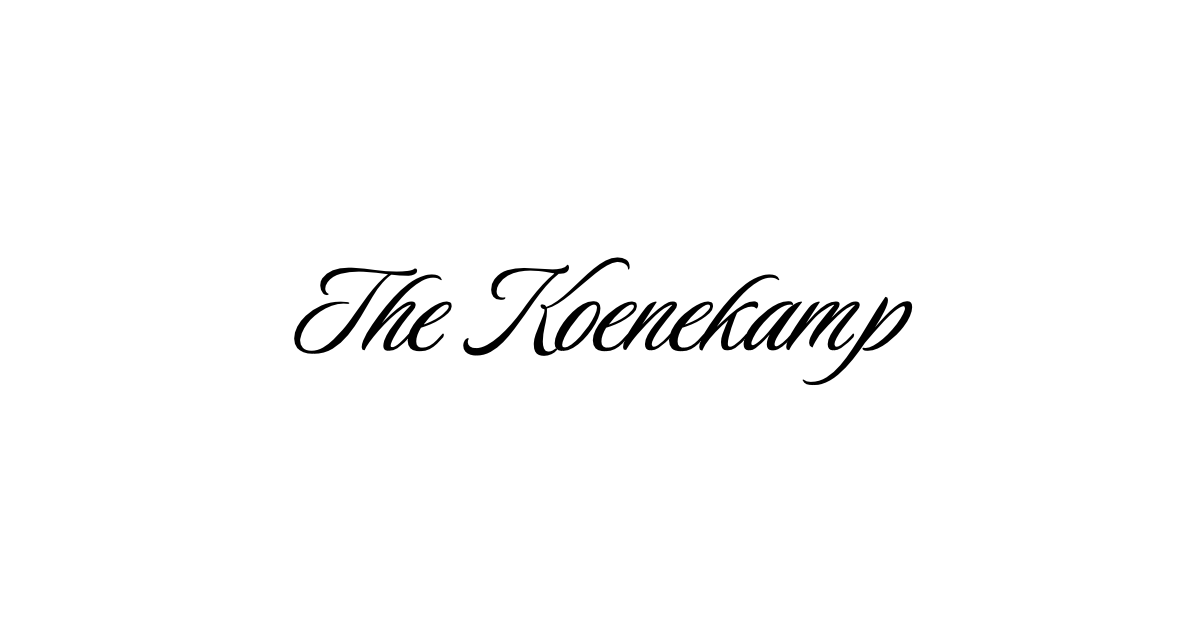
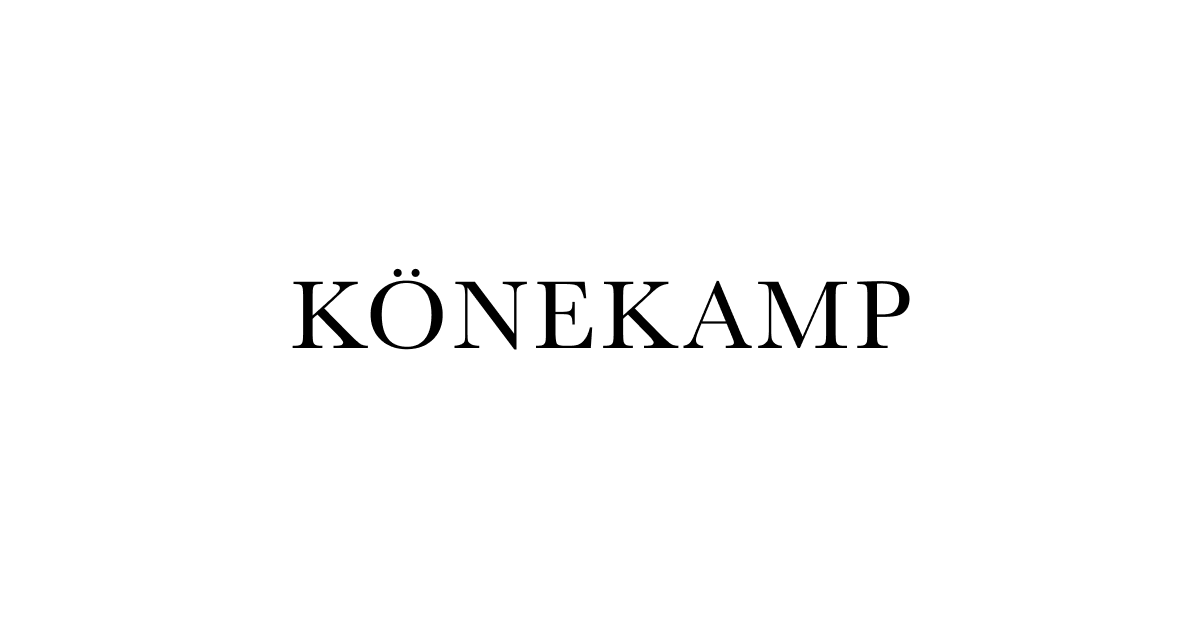
update design

Changed region(s): [[0.2467, 0.3921, 0.7708, 0.6032]]

diff --git a/app/layout.tsx b/app/layout.tsx
@@ -1,17 +1,9 @@
 import Footer from '@/components/layout/Footer';
+import Header from '@/components/layout/Header';
 import type { Metadata } from 'next';
-import { Geist, Geist_Mono, Playfair_Display } from 'next/font/google';
 import './globals.css';
 
-const geistSans = Geist({ variable: '--font-geist-sans', subsets: ['latin'] });
-const geistMono = Geist_Mono({ variable: '--font-geist-mono', subsets: ['latin'] });
-const playfair = Playfair_Display({
-	variable: '--font-display',
-	subsets: ['latin'],
-	weight: ['400', '500', '600', '700', '800', '900'],
-});
-
-const siteName = 'The Koenekamp';
+const siteName = 'KÖNEKAMP';
 const title = siteName;
 const description =
 	'Christoph Könekamp – DeFi Specialist, Blockchain Consultant, Full-Stack Web3 Developer, Infrastructure Architect (ENS/IPFS/IPNS).';
@@ -56,10 +48,11 @@ export const metadata: Metadata = {
 	category: 'technology',
 	authors: [{ name: 'Christoph Könekamp', url: 'https://thekoenekamp.com' }],
 	creator: 'Christoph Könekamp',
-	publisher: 'The Koenekamp',
+	publisher: 'Christoph Könekamp',
 	icons: {
 		icon: [
 			{ url: '/favicon.ico' },
+			{ url: '/logo.svg', type: 'image/svg+xml' },
 			{ url: '/icon.png', type: 'image/png', sizes: '32x32' },
 			{ url: '/icon-192.png', type: 'image/png', sizes: '192x192' },
 			{ url: '/apple-touch-icon.png', rel: 'apple-touch-icon', sizes: '180x180' },
@@ -70,9 +63,9 @@ export const metadata: Metadata = {
 export default function RootLayout({ children }: { children: React.ReactNode }) {
 	return (
 		<html lang="en" className="h-full bg-white text-neutral-900">
-			<body className={`${geistSans.variable} ${geistMono.variable} ${playfair.variable} antialiased h-full`}>
-				{/* Ganze Seite = Viewport-Höhe, Footer immer unten */}
-				<div className="min-h-svh grid grid-rows-[1fr_auto] overflow-hidden">
+			<body className="antialiased h-full">
+				{/* Whole page = Viewport height, Footer always at bottom */}
+				<div className="flex min-h-svh flex-col overflow-hidden">
 					<script
 						type="application/ld+json"
 						dangerouslySetInnerHTML={{
@@ -81,7 +74,7 @@ export default function RootLayout({ children }: { children: React.ReactNode }) 
 								'@type': 'Person',
 								name: 'Christoph Könekamp',
 								url: 'https://thekoenekamp.com',
-								email: 'mailto:contact@thekoenekamp.com',
+								email: 'mailto:office@thekoenekamp.com',
 								jobTitle: ['DeFi Specialist', 'Blockchain Consultant', 'Full-Stack Web3 Developer', 'Infrastructure Architect'],
 								sameAs: [
 									'https://x.com/your_handle',
@@ -92,7 +85,8 @@ export default function RootLayout({ children }: { children: React.ReactNode }) 
 							}),
 						}}
 					/>
-					<main className="flex items-center justify-center px-6">{children}</main>
+					<Header />
+					<main className="flex-1 flex items-center justify-center px-6">{children}</main>
 					<Footer />
 				</div>
 			</body>

diff --git a/app/page.tsx b/app/page.tsx
@@ -5,28 +5,30 @@ export default function Home() {
 	return (
 		<main className="flex flex-col items-center justify-center text-center w-full max-w-[760px] px-6 cursor-default">
 			{/* Brand / Name */}
-			<h1 className="font-[var(--font-display)] text-4xl sm:text-5xl md:text-6xl font-normal leading-tight tracking-wide mb-10">
-				<span className="font-luxuriousScript">The Koenekamp</span>
-			</h1>
+			<div className="text-4xl sm:text-5xl md:text-5xl font-normal leading-tight tracking-wide mb-0">
+				<div className="space-y-2">
+					<div className="scale-y-[0.9]">KÖNEKAMP</div>
+				</div>
+			</div>
 
 			{/* Name + Email */}
-			<div className="mb-6 space-y-2">
-				<div className="text-sm mb-0 font-semibold">Christoph Könekamp</div>
-				<a href="mailto:contact@thekoenekamp.com" className="text-sm underline">
-					contact@thekoenekamp.com
+			<div className="mb-0 space-y-2">
+				{/* <div className="text-sm mb-0 font-semibold">Christoph Könekamp</div> */}
+				<a href="mailto:office@thekoenekamp.com" className="text-sm underline">
+					office@thekoenekamp.com
 				</a>
 			</div>
 
 			{/* Roles */}
-			<ul className="text-sm leading-relaxed text-neutral-700 space-y-0 font-medium">
+			{/* <ul className="text-sm leading-relaxed space-y-0">
 				<li>DeFi Specialist</li>
 				<li>Blockchain Consultant</li>
 				<li>Full-Stack Web3 Developer</li>
 				<li>Infrastructure Architect (ENS/IPFS/IPNS)</li>
-			</ul>
+			</ul> */}
 
 			{/* Social Links */}
-			<div className="mt-6 flex space-x-6">
+			<div className="mt-4 flex space-x-6">
 				<a target="_blank" rel="noreferrer" href="https://x.com/thekoenekamp" className="group" title="X (Twitter)" aria-label="X (Twitter)">
 					<FaXTwitter className="w-4 h-4" />
 				</a>

diff --git a/components/layout/Footer.tsx b/components/layout/Footer.tsx
@@ -1,18 +1,17 @@
 'use client';
 
 import React from 'react';
-import { LuExternalLink } from 'react-icons/lu';
 
 export default function Footer() {
 	return (
-		<footer className="row-start-2 w-full text-black py-6 pb-[env(safe-area-inset-bottom)] mb-6 font-sans">
+		<footer className="row-start-2 w-full text-black bg-white py-4 pb-[env(safe-area-inset-bottom)] mb-0 font-sans">
 			<div className="container mx-auto flex flex-col items-center gap-6 sm:flex-row sm:justify-between">
-				{/* Left placeholder (Logo/Navi möglich) */}
+				{/* Left placeholder */}
 				<div className="hidden sm:block flex-1" />
 
 				{/* IPNS Link */}
 				<div className="text-[0.6rem] text-center">
-					<a
+					{/* <a
 						href="https://thekoenekamp.eth.limo"
 						target="_blank"
 						rel="noreferrer"
@@ -20,7 +19,7 @@ export default function Footer() {
 					>
 						<span className="relative top-[1px]">IPNS</span>
 						<LuExternalLink className="w-3 h-3" />
-					</a>
+					</a> */}
 				</div>
 
 				{/* Right placeholder */}
@@ -28,7 +27,7 @@ export default function Footer() {
 			</div>
 
 			{/* Bottom Section */}
-			<div className="mt-2 text-[0.5rem] text-center">Copyright © {new Date().getFullYear()} The Koenekamp. All rights reserved.</div>
+			<div className="mt-0 mb-4 text-[0.5rem] text-center">Copyright © 1995-{new Date().getFullYear()} KÖNEKAMP. All rights reserved.</div>
 		</footer>
 	);
 }

diff --git a/app/not-found.tsx b/app/not-found.tsx
@@ -4,16 +4,17 @@ import Link from 'next/link';
 
 export default function NotFound() {
 	return (
-		<div className="flex min-h-screen items-center justify-center bg-white px-4">
+		<div className="flex items-center justify-center bg-white px-4">
 			<div className="text-center space-y-6">
 				<h1 className="font-[var(--font-display)] text-4xl sm:text-5xl font-normal text-black">Page not found</h1>
-				<p className="text-base sm:text-lg text-neutral-500 max-w-md mx-auto">The page you’re looking for doesn’t exist.</p>
+				<p className="text-base sm:text-md text-neutral-500 max-w-md mx-auto mb-0">The page you are looking for does not exist.</p>
+				<p className="text-base sm:text-md text-neutral-500 max-w-xl mx-auto mt-0">You may have mistyped or the page may have moved.</p>
 				<Link
 					href="/"
-					aria-label="Go to home page"
-					className="inline-block border border-neutral-300 px-6 py-3 text-sm font-medium text-black transition hover:bg-neutral-50 hover:border-neutral-400 focus:outline-none focus:ring-2 focus:ring-neutral-300"
+					aria-label="Go to homepage"
+					className="inline-block border border-black px-6 py-3 text-sm font-medium text-white transition bg-black"
 				>
-					Return to Home
+					RETURN HOME
 				</Link>
 			</div>
 		</div>

diff --git a/app/manifest.ts b/app/manifest.ts
@@ -1,0 +1,37 @@
+import { MetadataRoute } from 'next';
+
+export const dynamic = 'force-static';
+export const revalidate = false;
+
+export default function manifest(): MetadataRoute.Manifest {
+	return {
+		name: 'KÖNEKAMP',
+		short_name: 'KÖNEKAMP',
+		start_url: '.',
+		display: 'standalone',
+		background_color: '#ffffff',
+		theme_color: '#000000',
+		icons: [
+			{
+				src: '/favicon.ico',
+				sizes: '64x64 32x32 24x24 16x16',
+				type: 'image/x-icon',
+			},
+			{
+				src: '/icon.svg',
+				type: 'image/svg+xml',
+				sizes: '512x512',
+			},
+			{
+				src: '/logo192.png',
+				sizes: '192x192',
+				type: 'image/png',
+			},
+			{
+				src: '/logo512.png',
+				sizes: '512x512',
+				type: 'image/png',
+			},
+		],
+	};
+}

diff --git a/app/globals.css b/app/globals.css
@@ -1,5 +1,5 @@
 /* Fonts */
-@import url('https://fonts.googleapis.com/css2?family=Luxurious+Script&display=swap');
+@import url('https://fonts.googleapis.com/css2?family=Baskervville:ital,wght@0,400..700;1,400..700&display=swap');
 
 /* Tailwind v4 */
 @import 'tailwindcss';
@@ -8,8 +8,8 @@
 @theme {
 	--font-display: ui-serif, Georgia, 'Times New Roman', Times, serif;
 	--font-baskerville: Baskerville, 'Libre Baskerville', 'Times New Roman', serif;
-	--font-luxuriousScript: 'Luxurious Script', cursive;
-
+	--font-baskervville: 'Baskervville', serif;
+	--font-montserrat: 'Montserrat', -apple-system, BlinkMacSystemFont, 'Segoe UI', Roboto, sans-serif;
 	/* Custom Colors */
 	--color-primary: #111111;
 	--color-secondary: #222222;

diff --git a/components/layout/Header.tsx b/components/layout/Header.tsx
@@ -1,0 +1,23 @@
+'use client';
+
+import Link from 'next/link';
+import React from 'react';
+
+export default function Header() {
+	return (
+		<header className="w-full text-black mt-5 -mb-5 font-sans">
+			<div className="container mx-auto flex flex-col items-center gap-6 sm:flex-row sm:justify-between">
+				{/* Left placeholder */}
+				<div className="hidden sm:block flex-1" />
+
+				{/* IPNS Link */}
+				<Link href="/" className="text-[2.125rem] text-center">
+					{/* <div className="font-baskerville font-[400] scale-x-[1] scale-y-[0.9]">KÖNEKAMP</div> */}
+				</Link>
+
+				{/* Right placeholder */}
+				<div className="hidden sm:block flex-1" />
+			</div>
+		</header>
+	);
+}

diff --git a/tailwind.config.js b/tailwind.config.js
@@ -29,7 +29,9 @@ module.exports = {
 				muted: 'var(--color-muted)', // Muted/gray text
 			},
 			fontFamily: {
-				luxuriousScript: ['"Luxurious Script"', 'cursive'],
+				baskerville: ['"Baskerville"', 'serif'],
+				baskervville: ['"Baskervville"', 'serif'],
+				montserrat: ['"Montserrat"', '-apple-system', 'BlinkMacSystemFont', 'Segoe UI', 'Roboto', 'sans-serif'],
 			},
 			animation: {
 				pulse: 'pulse 2s infinite',

diff --git a/README.md b/README.md
@@ -1,4 +1,4 @@
-# **The Koenekamp – Private Website**
+# **Könekamp – Website**
 
 [![License: Private](https://img.shields.io/badge/License-Private-red.svg?style=for-the-badge)](./LICENSE)
 [![Next.js](https://img.shields.io/badge/Built%20with-Next.js-black?style=for-the-badge&logo=next.js)](https://nextjs.org/)
